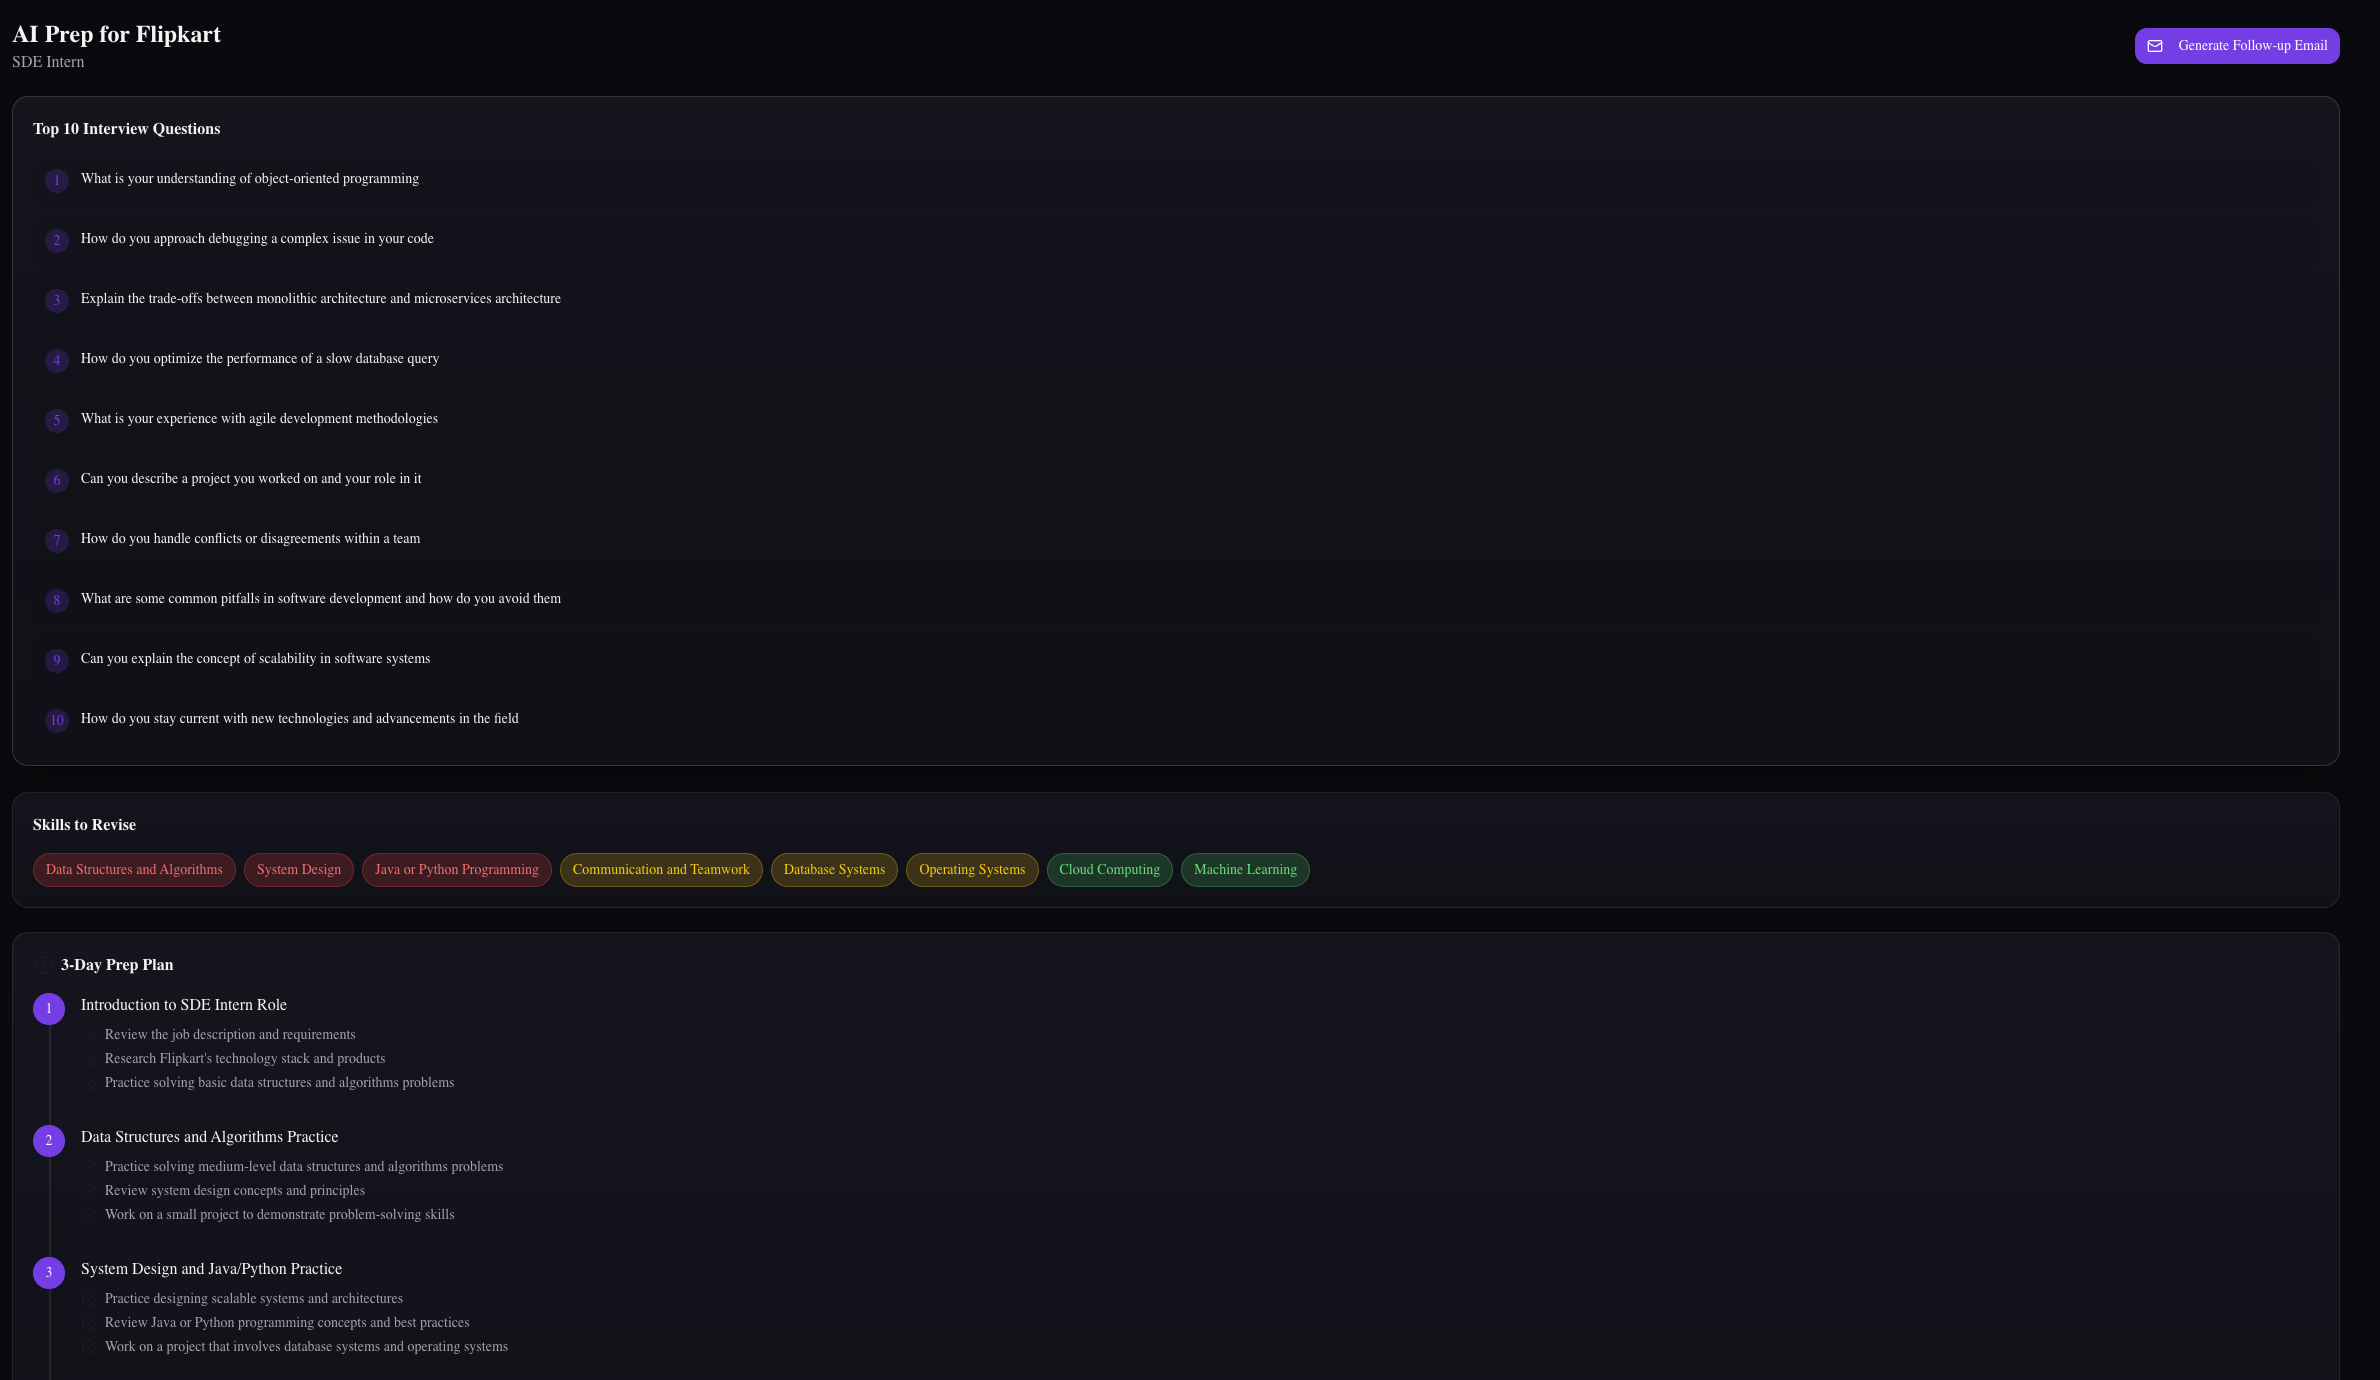
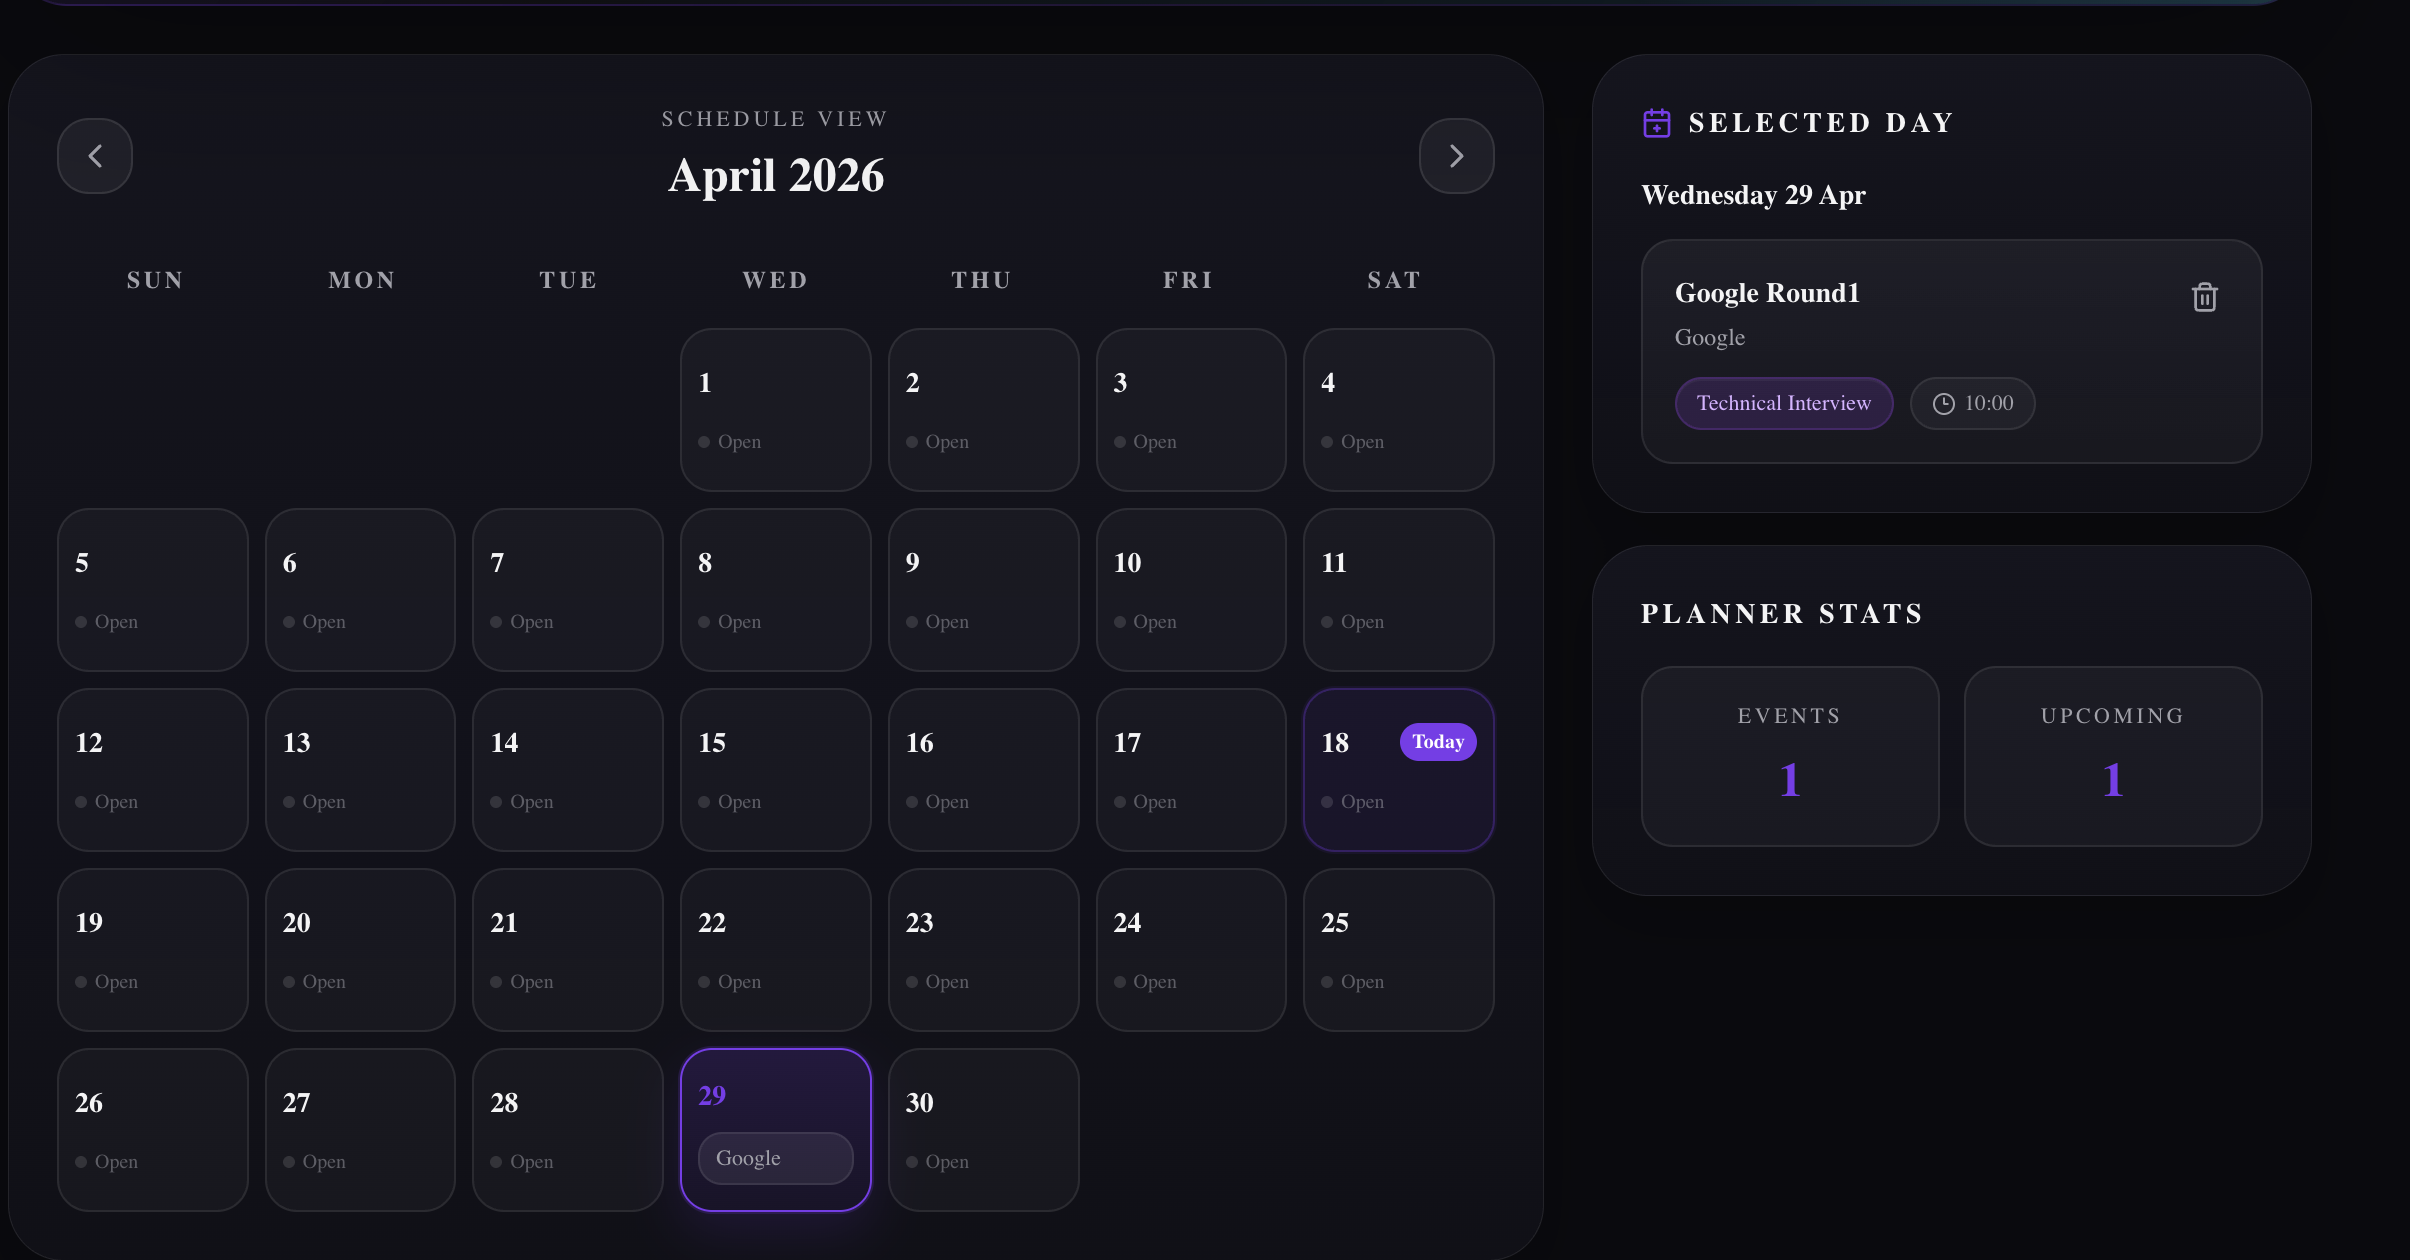
update

diff --git a/client/app/page.tsx b/client/app/page.tsx
@@ -440,8 +440,8 @@ export default function HomePage() {
             </h1>
 
             <p className="mt-6 max-w-2xl text-lg leading-8 text-zinc-400 sm:text-xl">
-              Tracktern helps students manage applications, prepare for interviews, discover career paths, close skill gaps,
-              and stay consistent with practice, all in one workspace that actually feels built for placement season.
+You started with a WhatsApp forward and a color-coded Excel sheet. Now you have 12 tabs open, three deadlines missed, and no idea which companies you've actually applied to.
+Tracktern fixes that. One AI-powered workspace to manage applications, prep for interviews, discover career paths, and close skill gaps — built for placement season, not against it.
             </p>
 
             <div className="mt-8 flex flex-col gap-4 sm:flex-row">
